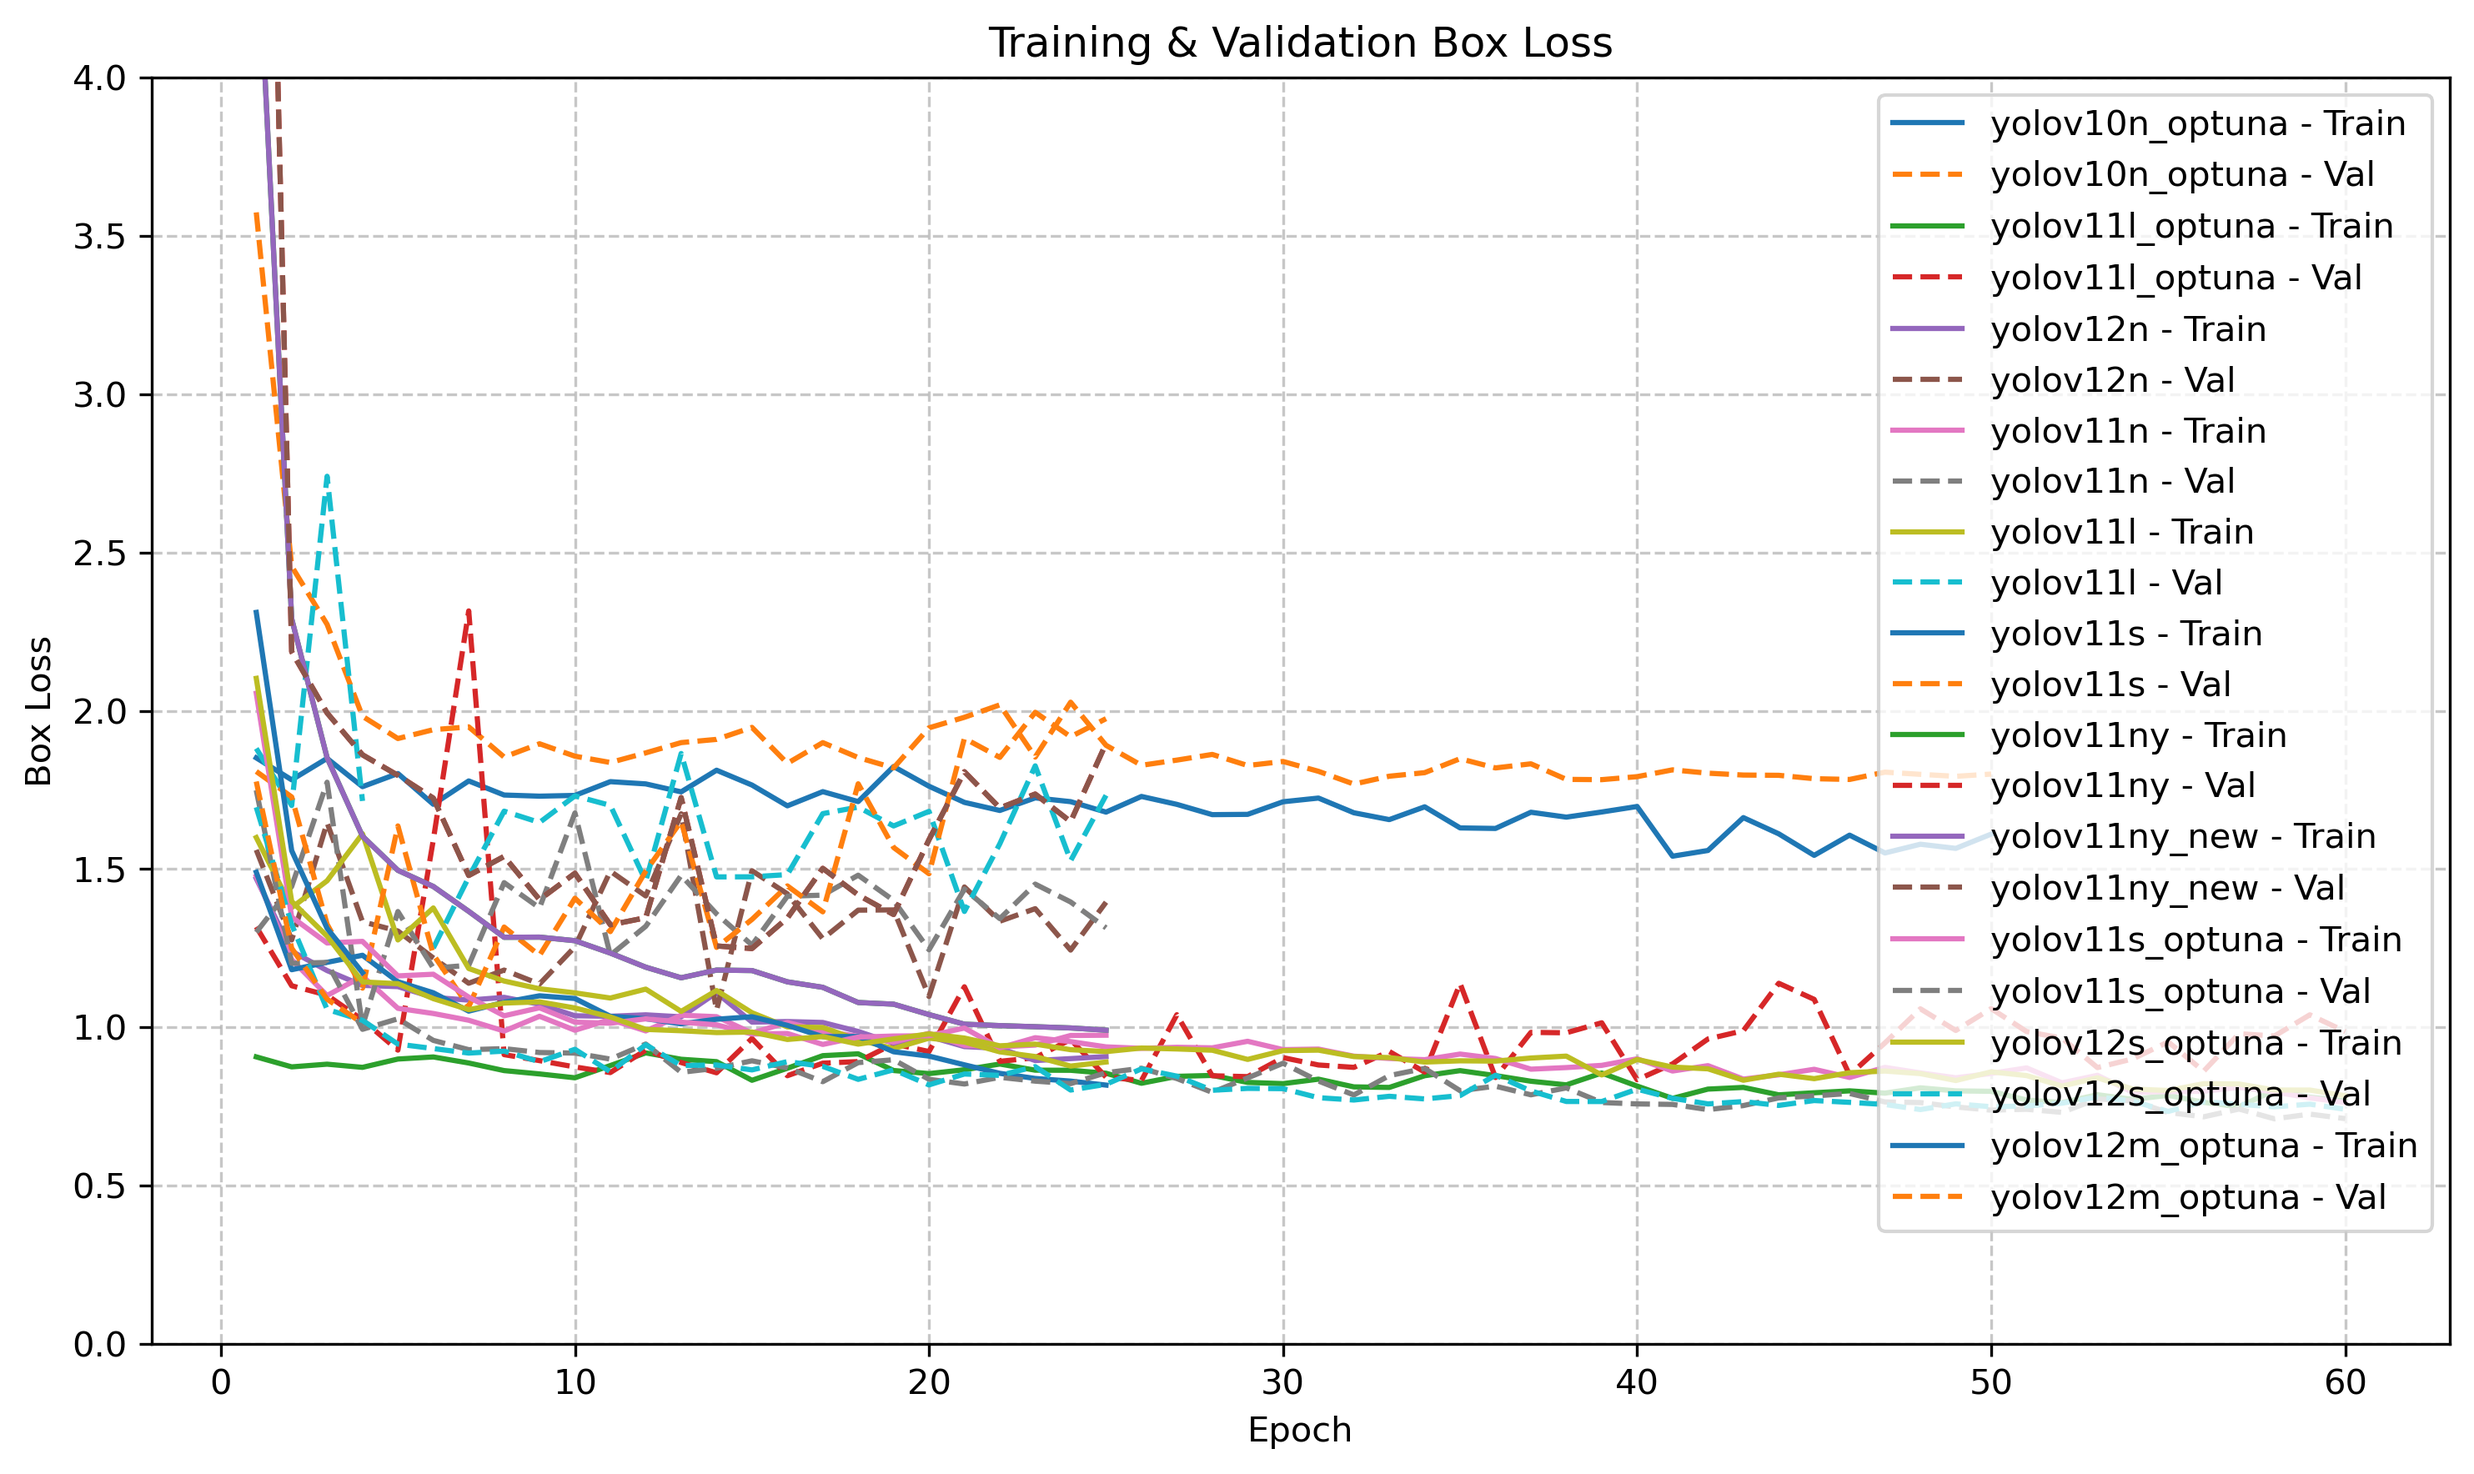
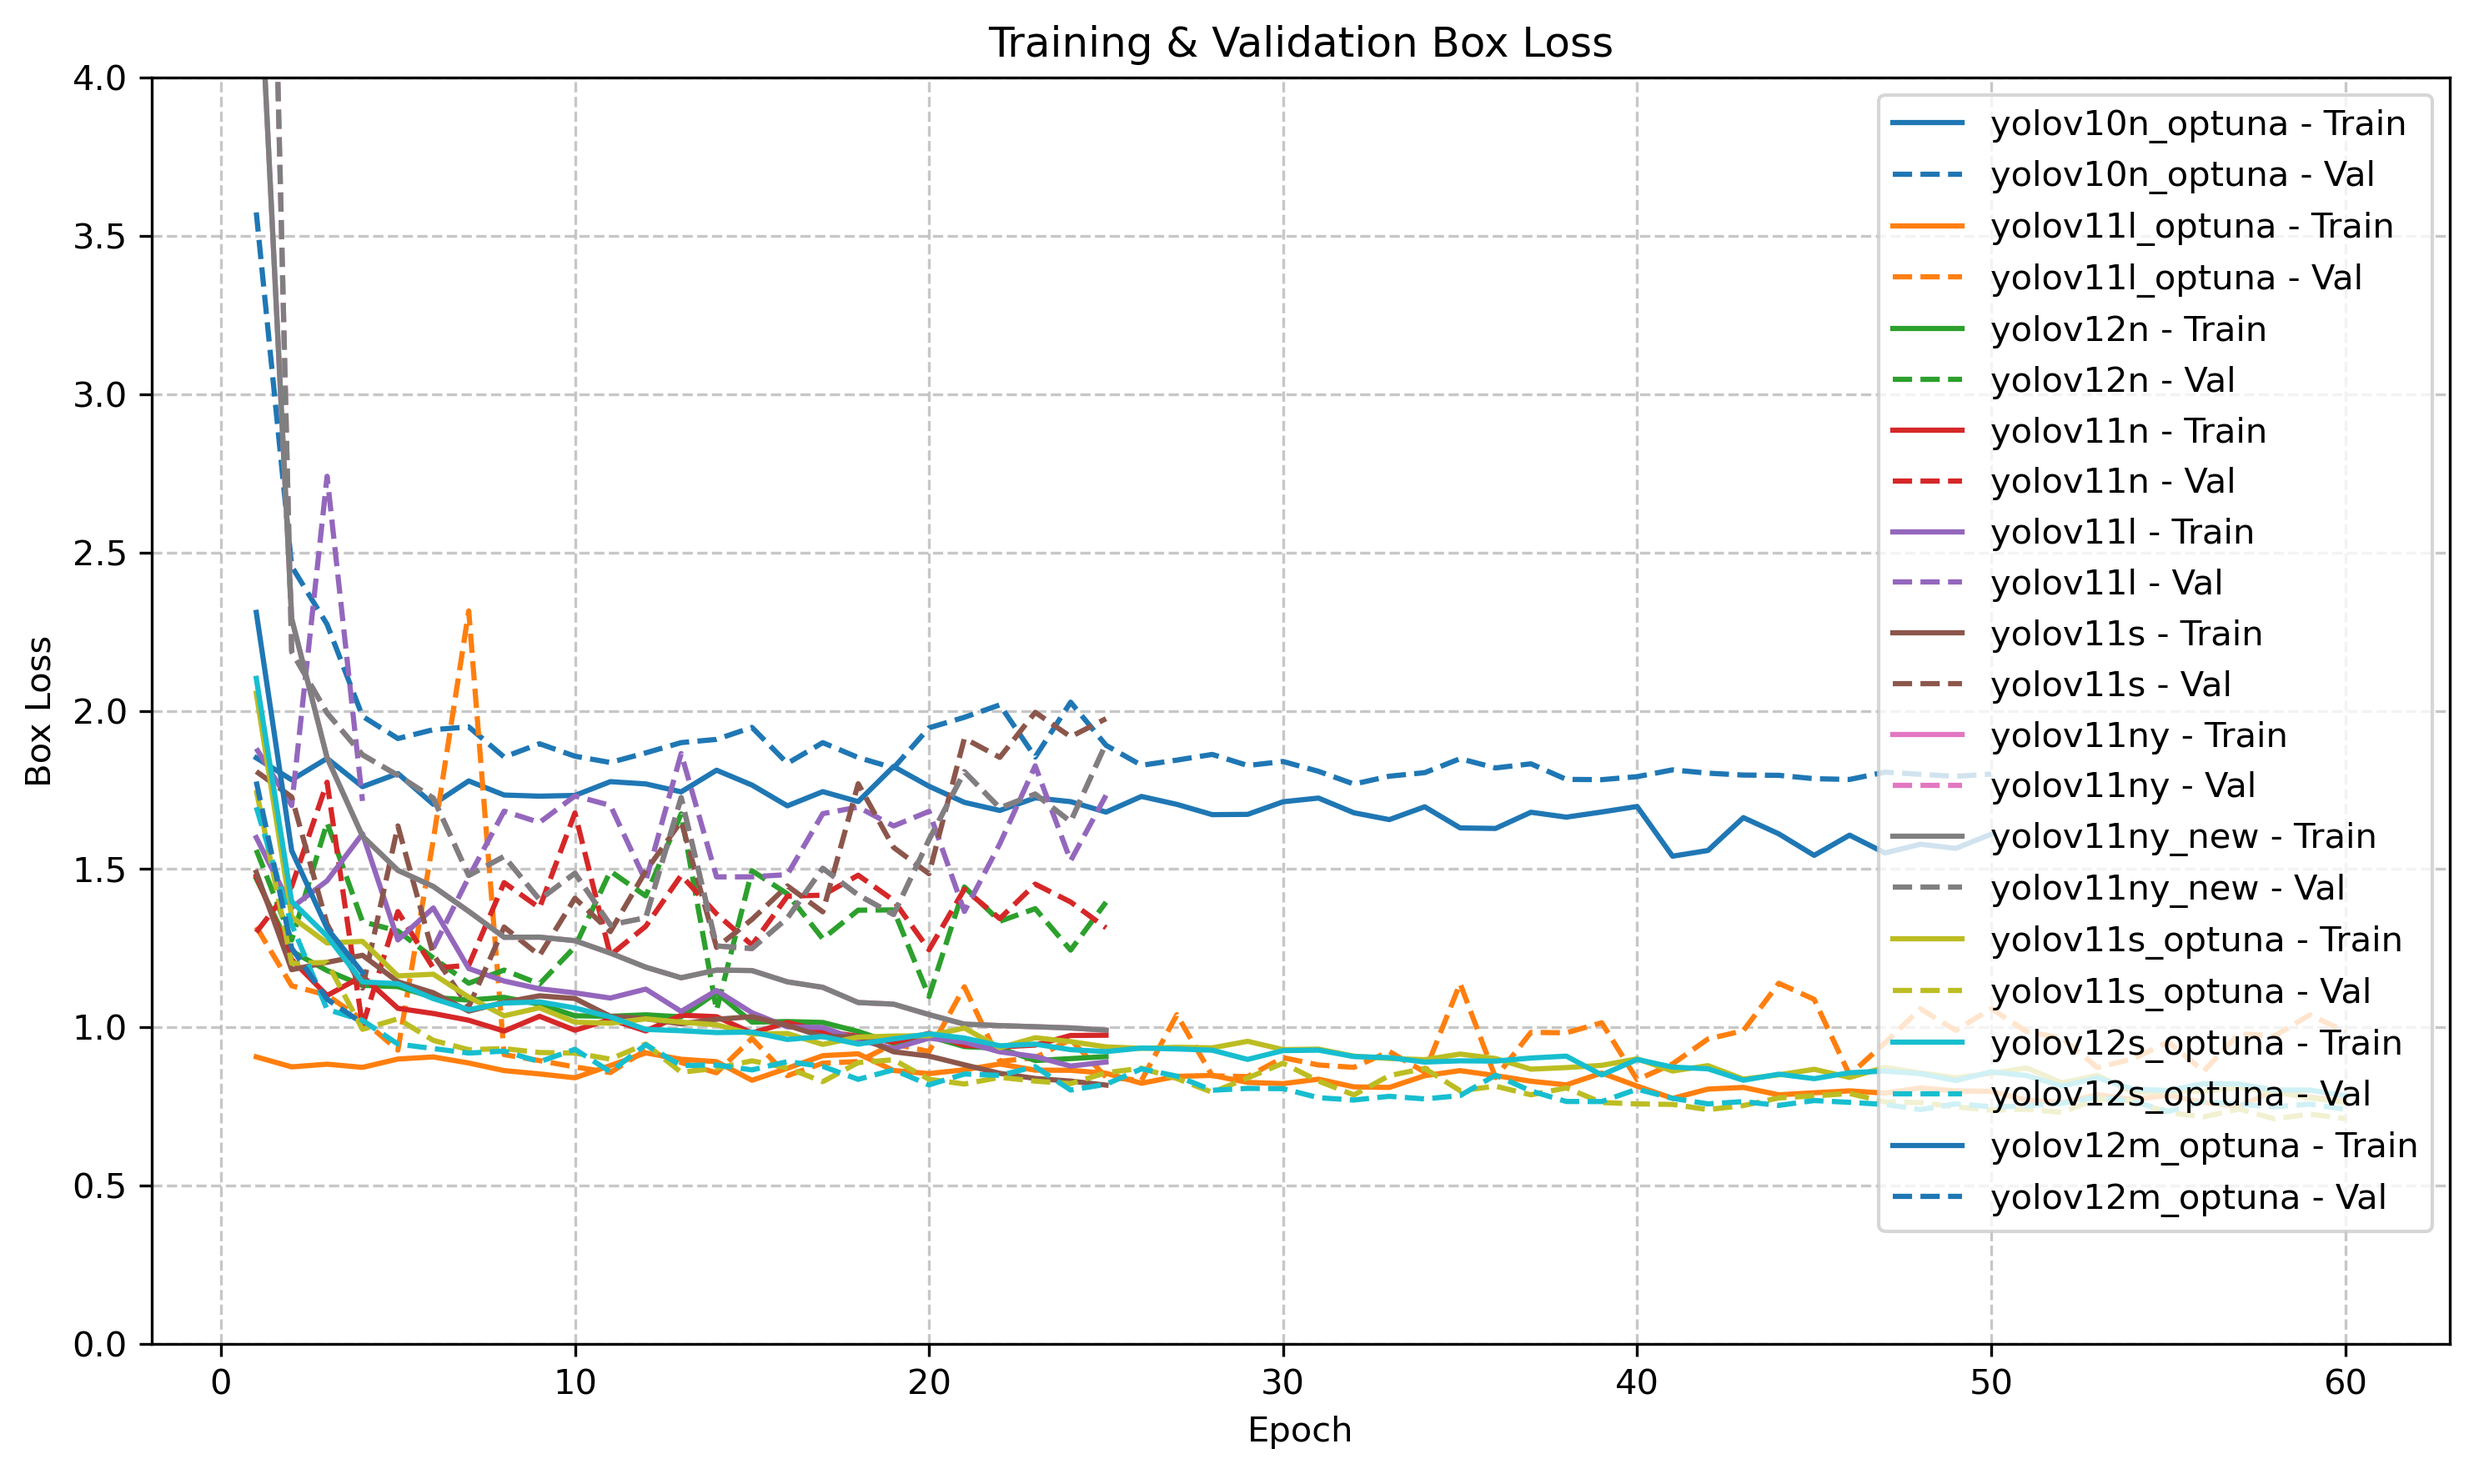
Cambios plot_utils para yolo y se añade una tabla con la validación de los modelos en las imágenes críticas

Changed region(s): [[0.093, 0.3733, 0.9302, 0.7466], [0.093, 0.0622, 0.124, 0.3422], [0.7442, 0.4977, 0.8062, 0.5288]]

diff --git a/04.Codigo/lib/YOLO_lib/plot_utils.py b/04.Codigo/lib/YOLO_lib/plot_utils.py
@@ -18,18 +18,56 @@ def load_experiment_results(exp_paths):
             print(f"Error al cargar {path}: {e}")
     return dfs
 
+
+# def create_and_save_individual_plot(dfs, plots_dir, plot_type, y_column, title, ylabel, is_dual=False, y_limit=None):
+#     """
+#     Crea y guarda una gráfica individual de métricas.
+#     """
+#     plt.figure(figsize=(10, 6))
+#     if is_dual:
+#         for model_name, df in dfs.items():
+#             plt.plot(df['epoch'], df[y_column[0]], label=f"{model_name} - Train")
+#             plt.plot(df['epoch'], df[y_column[1]], '--', label=f"{model_name} - Val")
+#     else:
+#         for model_name, df in dfs.items():
+#             plt.plot(df['epoch'], df[y_column], label=model_name)
+#     plt.title(title)
+#     plt.xlabel('Epoch')
+#     plt.ylabel(ylabel)
+#     if y_limit:
+#         plt.ylim(*y_limit)
+#     plt.grid(True, linestyle='--', alpha=0.7)
+#     plt.legend()
+#     plt.tight_layout()
+#     os.makedirs(plots_dir, exist_ok=True)
+#     filename = f"{plots_dir}/{plot_type}.png"
+#     plt.savefig(filename, dpi=300, bbox_inches='tight')
+#     plt.show()
+#     plt.close()
+
+
 def create_and_save_individual_plot(dfs, plots_dir, plot_type, y_column, title, ylabel, is_dual=False, y_limit=None):
     """
     Crea y guarda una gráfica individual de métricas.
     """
+
     plt.figure(figsize=(10, 6))
+
+    prop_cycle = plt.rcParams['axes.prop_cycle']
+    default_colors = prop_cycle.by_key()['color']
+    color_map = {}
+    for idx, model_name in enumerate(dfs.keys()):
+        color_map[model_name] = default_colors[idx % len(default_colors)]
+
     if is_dual:
-        for model_name, df in dfs.items():
-            plt.plot(df['epoch'], df[y_column[0]], label=f"{model_name} - Train")
-            plt.plot(df['epoch'], df[y_column[1]], '--', label=f"{model_name} - Val")
+        for idx, (model_name, df) in enumerate(dfs.items()):
+            color = color_map[model_name]
+            plt.plot(df['epoch'], df[y_column[0]], label=f"{model_name} - Train", color=color, linestyle='-')
+            plt.plot(df['epoch'], df[y_column[1]], label=f"{model_name} - Val", color=color, linestyle='--')
     else:
-        for model_name, df in dfs.items():
-            plt.plot(df['epoch'], df[y_column], label=model_name)
+        for idx, (model_name, df) in enumerate(dfs.items()):
+            color = color_map[model_name]
+            plt.plot(df['epoch'], df[y_column], label=model_name, color=color)
     plt.title(title)
     plt.xlabel('Epoch')
     plt.ylabel(ylabel)

diff --git a/04.Codigo/cell_detection_App/app.py b/04.Codigo/cell_detection_App/app.py
@@ -16,7 +16,7 @@ st.set_page_config(
     initial_sidebar_state="expanded"
 )
 
-with open("styles.css") as f:
+with open("assets/styles.css") as f:
     st.markdown(f"<style>{f.read()}</style>", unsafe_allow_html=True)
 
 # Cache del modelo para mejorar rendimiento
@@ -26,8 +26,7 @@ def load_model(model_name):
     model_paths = {
         "YOLOv12s Optimizado": "models/final_model_optunav12s/weights/best.pt",
         "YOLOv11s Optimizado": "models/final_model_optunav11s/weights/best.pt",
-        "YOLOv12n": "models/yolo12n/weights/best.pt",
-        "YOLOv11n": "models/yolo11n/weights/best.pt"
+        "YOLOv10n": "models/final_model_yolov10n/weights/best.pt"
     }
     model_path = model_paths[model_name]
     if not os.path.exists(model_path):
@@ -100,8 +99,7 @@ def main():
     model_options = [
         "YOLOv12s Optimizado",
         "YOLOv11s Optimizado",
-        "YOLOv12n",
-        "YOLOv11n"
+        "YOLOv10n"
     ]
     selected_model = st.sidebar.selectbox(
         "Selecciona el modelo",
